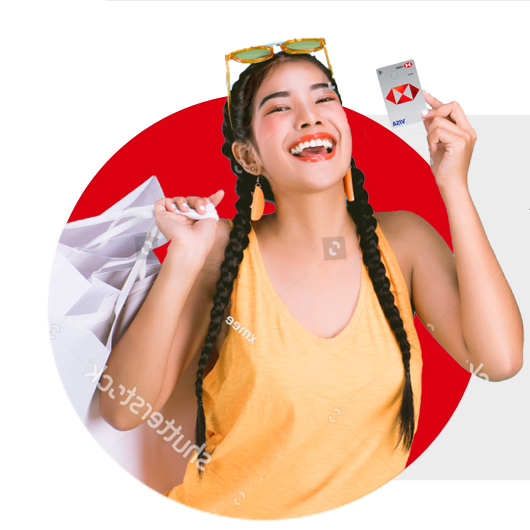
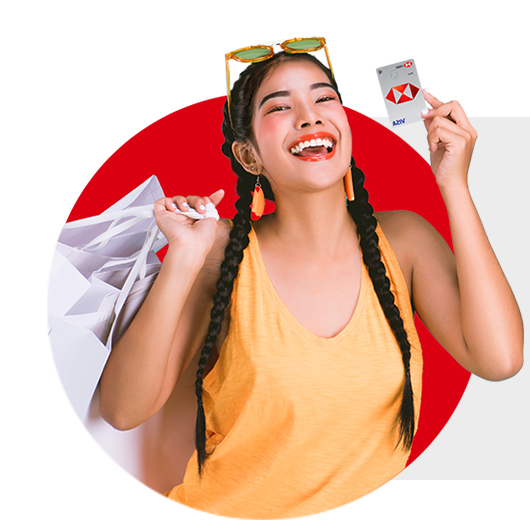
fix + replace img

diff --git a/source/index_vn.html b/source/index_vn.html
@@ -179,10 +179,10 @@
 						  <td width="265" valign="top" align="left" style="margin: 0; padding: 0; border: none; font-family: Arial, Helvetica, sans-serif !important; font-size: 16px; line-height: 1.3;"><img src="image/chs_box_4.jpg" width="265" height="auto" alt="" style="display:block"/></td>
 						  <td valign="top" align="left" style="margin: 0; padding: 0; border: none; font-family: Arial, Helvetica, sans-serif !important; font-size: 16px; line-height: 1.3;"><table width="100%" border="0" cellpadding="0" cellspacing="0" class="chs_body">
 							  <tr>
-								  <td height="57" valign="top" align="left" style="margin: 0; padding: 0; border: none; font-family: Arial, Helvetica, sans-serif !important; font-size: 16px; line-height: 1.3;">&nbsp;</td>
+								  <td height="58" valign="top" align="left" style="margin: 0; padding: 0; border: none; font-family: Arial, Helvetica, sans-serif !important; font-size: 16px; line-height: 1.3;">&nbsp;</td>
 							  </tr>
 							  <tr>
-								  <td height="183" bgcolor="#ececec" valign="middle" align="left" style="margin: 0; padding: 0 28px 0 20px; border: none; font-family: Arial, Helvetica, sans-serif !important; font-size: 16px; line-height: 1.3;"><table width="100%" border="0" cellpadding="0" cellspacing="0" class="chs_body">
+								  <td height="182" bgcolor="#ececec" valign="middle" align="left" style="margin: 0; padding: 0 28px 0 20px; border: none; font-family: Arial, Helvetica, sans-serif !important; font-size: 16px; line-height: 1.3;"><table width="100%" border="0" cellpadding="0" cellspacing="0" class="chs_body">
 									  <tr>
 										  <td valign="top" align="left" style="margin: 0; padding: 0; border: none; font-family: Arial, Helvetica, sans-serif !important; font-size: 20px; line-height: 1.3;"><strong>VÔ VÀN ƯU ĐÃI CÙNG THẺ THANH TOÁN QUỐC TẾ HSBC</strong></td>
 									  </tr>

diff --git a/source/index_en.html b/source/index_en.html
@@ -179,10 +179,10 @@
 						  <td width="265" valign="top" align="left" style="margin: 0; padding: 0; border: none; font-family: Arial, Helvetica, sans-serif !important; font-size: 16px; line-height: 1.3;"><img src="image/chs_box_4.jpg" width="265" height="auto" alt="" style="display:block"/></td>
 						  <td valign="top" align="left" style="margin: 0; padding: 0; border: none; font-family: Arial, Helvetica, sans-serif !important; font-size: 16px; line-height: 1.3;"><table width="100%" border="0" cellpadding="0" cellspacing="0" class="chs_body">
 							  <tr>
-								  <td height="57" valign="top" align="left" style="margin: 0; padding: 0; border: none; font-family: Arial, Helvetica, sans-serif !important; font-size: 16px; line-height: 1.3;">&nbsp;</td>
+								  <td height="58" valign="top" align="left" style="margin: 0; padding: 0; border: none; font-family: Arial, Helvetica, sans-serif !important; font-size: 16px; line-height: 1.3;">&nbsp;</td>
 							  </tr>
 							  <tr>
-								  <td height="183" bgcolor="#ececec" valign="middle" align="left" style="margin: 0; padding: 0 28px 0 20px; border: none; font-family: Arial, Helvetica, sans-serif !important; font-size: 16px; line-height: 1.3;"><table width="100%" border="0" cellpadding="0" cellspacing="0" class="chs_body">
+								  <td height="182" bgcolor="#ececec" valign="middle" align="left" style="margin: 0; padding: 0 28px 0 20px; border: none; font-family: Arial, Helvetica, sans-serif !important; font-size: 16px; line-height: 1.3;"><table width="100%" border="0" cellpadding="0" cellspacing="0" class="chs_body">
 									  <tr>
 										  <td valign="top" align="left" style="margin: 0; padding: 0; border: none; font-family: Arial, Helvetica, sans-serif !important; font-size: 20px; line-height: 1.3;"><strong>ENJOY NUMEROUS SPECIAL PROMOTIONS WITH THE HSBC DEBIT CARD</strong></td>
 									  </tr>
